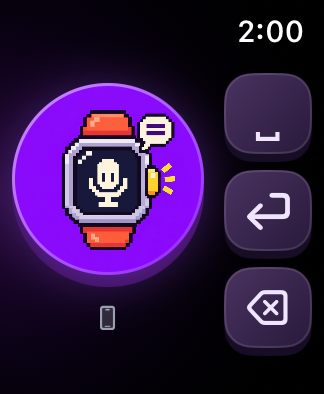
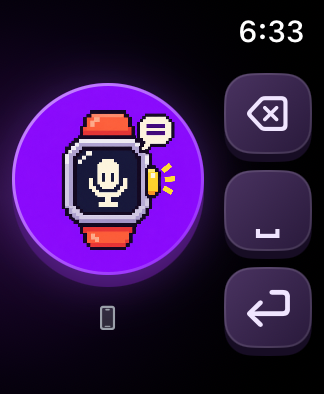
Refresh Talkey screenshots and hold-to-repeat guidance

diff --git a/_includes/talkey-page.html b/_includes/talkey-page.html
@@ -20,8 +20,8 @@
     <figure class="bitbox-showcase">
       <div class="bitbox-preview-heading"><span>{{ copy.preview_label | escape }}</span><span aria-hidden="true">✦</span></div>
       <div class="bitbox-devices">
-        <div class="bitbox-phone"><img src="{{ '/assets/programs/talkey/iphone-preview.png' | relative_url }}" width="1206" height="2622" alt="{{ copy.iphone_alt | escape }}" fetchpriority="high"></div>
-        <div class="bitbox-watch"><div class="bitbox-watch-crown" aria-hidden="true"></div><img src="{{ '/assets/programs/talkey/watch-preview.png' | relative_url }}" width="324" height="394" alt="{{ copy.watch_alt | escape }}"></div>
+        <div class="bitbox-phone"><img src="{{ '/assets/programs/talkey/iphone-preview.png' | relative_url }}?v=1ade783b83ef" width="1206" height="2622" alt="{{ copy.iphone_alt | escape }}" fetchpriority="high"></div>
+        <div class="bitbox-watch"><div class="bitbox-watch-crown" aria-hidden="true"></div><img src="{{ '/assets/programs/talkey/watch-preview.png' | relative_url }}?v=f2b728f5ff71" width="324" height="394" alt="{{ copy.watch_alt | escape }}"></div>
         <img class="bitbox-mascot" src="{{ '/assets/programs/talkey/icon.png' | relative_url }}" width="100" height="100" alt="" aria-hidden="true">
       </div>
       <figcaption>{{ copy.preview_note | escape }}</figcaption>

diff --git a/talkey/ja/index.html b/talkey/ja/index.html
@@ -2,7 +2,7 @@
 layout: product
 title: Talkey
 tagline: Voice from your wrist, text on your iPhone
-description: 小さなアイコンを押しながら話してみてください。TalkeyがApple Watchの録音をiPhoneの入力欄の文字に変えます。 現在は紹介と開発画面のみを公開しています。インストールファイルやダウンロードは提供していません。
+description: 丸いアイコンを押しながら話してみてください。TalkeyがApple Watchの録音をiPhoneの入力欄の文字に変えます。 現在は紹介と開発画面のみを公開しています。インストールファイルやダウンロードは提供していません。
 lang: ja
 product: talkey
 icon: /assets/programs/talkey/icon.png

diff --git a/talkey/index.html b/talkey/index.html
@@ -2,7 +2,7 @@
 layout: product
 title: Talkey
 tagline: Voice from your wrist, text on your iPhone
-description: 작은 아이콘을 꾹 누르고 말해 보세요. Talkey가 Apple Watch의 목소리를 아이폰 입력칸의 글자로 바꿉니다. 지금은 소개와 개발 중 화면만 공개합니다. 설치 파일과 다운로드는 제공하지 않습니다.
+description: 원형 아이콘을 꾹 누르고 말해 보세요. Talkey가 Apple Watch의 목소리를 아이폰 입력칸의 글자로 바꿉니다. 지금은 소개와 개발 중 화면만 공개합니다. 설치 파일과 다운로드는 제공하지 않습니다.
 lang: ko
 product: talkey
 icon: /assets/programs/talkey/icon.png

diff --git a/talkey/en/index.html b/talkey/en/index.html
@@ -2,7 +2,7 @@
 layout: product
 title: Talkey
 tagline: Voice from your wrist, text on your iPhone
-description: Press the little icon and say a few words. Talkey turns your Apple Watch recording into text in an iPhone input field. An introduction and development previews only. No installation files or downloads are available.
+description: Press the round icon and say a few words. Talkey turns your Apple Watch recording into text in an iPhone input field. An introduction and development previews only. No installation files or downloads are available.
 lang: en
 product: talkey
 icon: /assets/programs/talkey/icon.png

diff --git a/README.md b/README.md
@@ -155,3 +155,5 @@ node --test tests/*.test.mjs
 ### Talkey 소개 페이지
 
 `/talkey/`, `/talkey/en/`, `/talkey/ja/`는 BitBox와 같은 소개 전용 구조입니다. 큰 원형 아이콘 버튼과 보라색 화면을 실제 시뮬레이터에서 캡처해 보여줍니다. 공개 자산은 아이콘과 화면 이미지뿐이며, 앱 소스·IPA·설치 파일·App Store·TestFlight 다운로드 링크는 포함하지 않습니다. `tests/talkey-preview.test.mjs`와 공통 언어 검사로 이 상태를 확인합니다.
+
+워치 화면은 백스페이스·스페이스·엔터 순서이며, 백스페이스와 스페이스의 길게 누르기 반복 동작을 세 언어로 안내합니다. 화면 이미지를 갱신할 때에는 `_includes/talkey-page.html`의 이미지 버전 값도 변경해 이전 캡처가 캐시에 남지 않도록 합니다.
